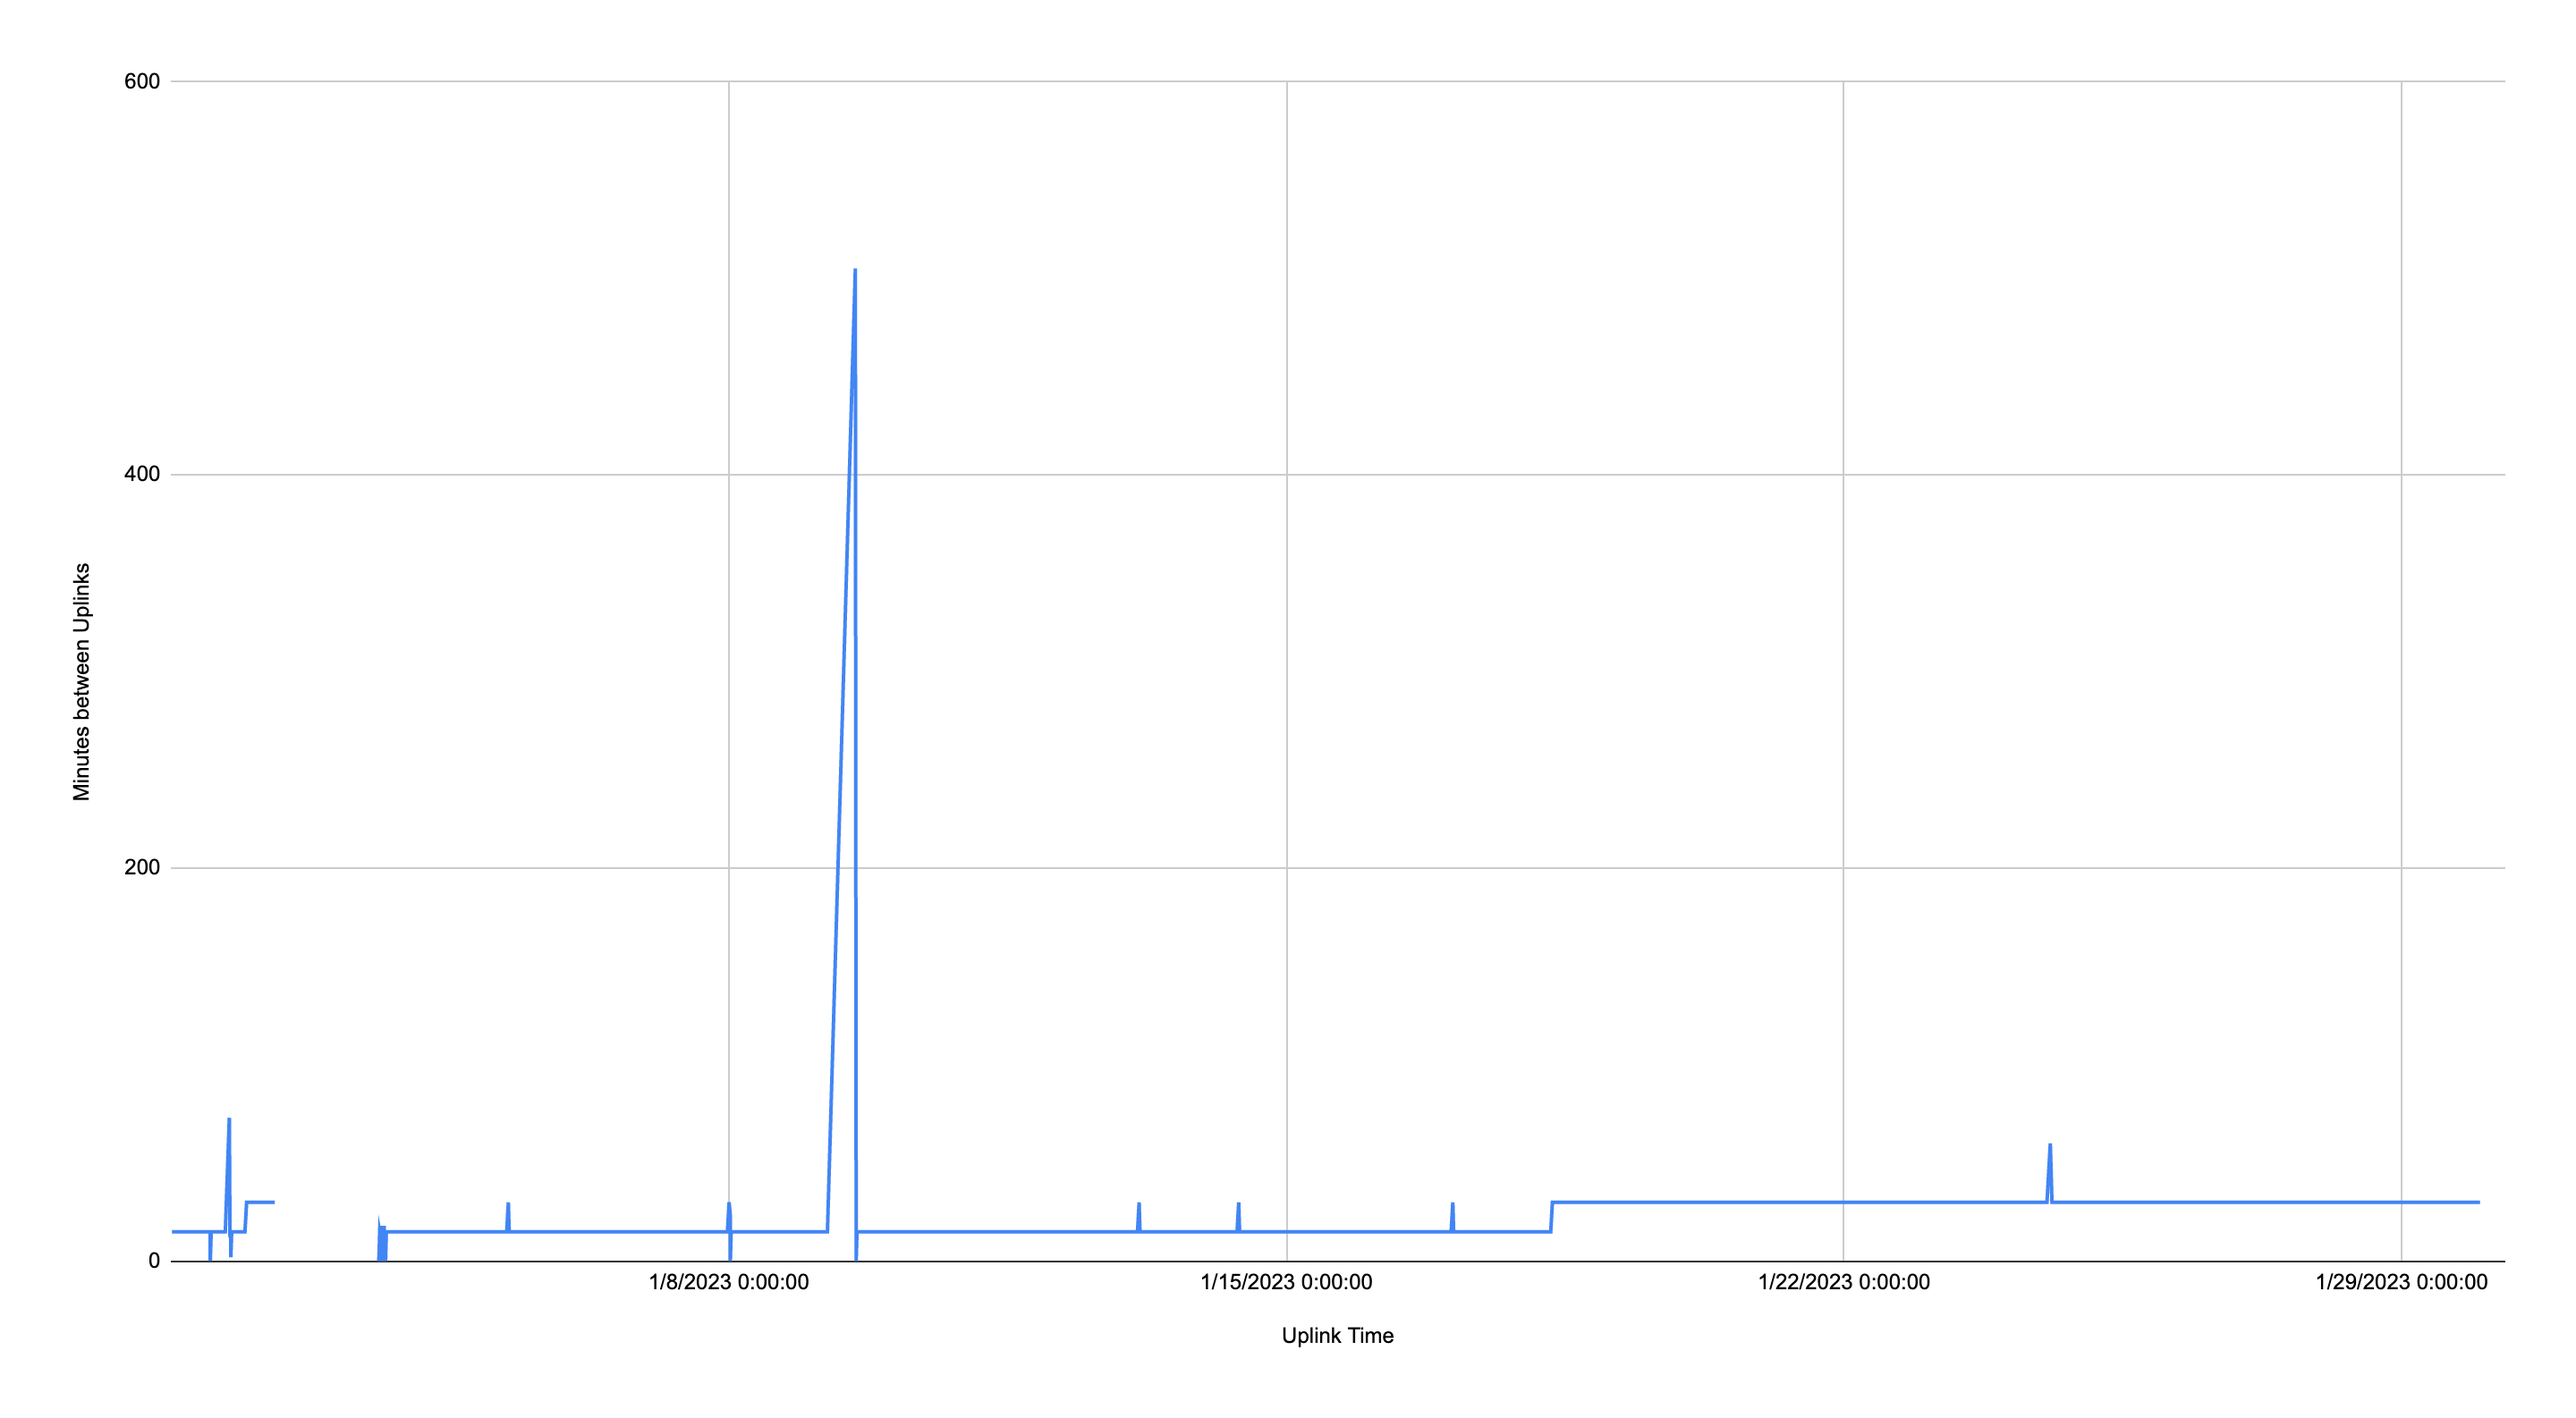
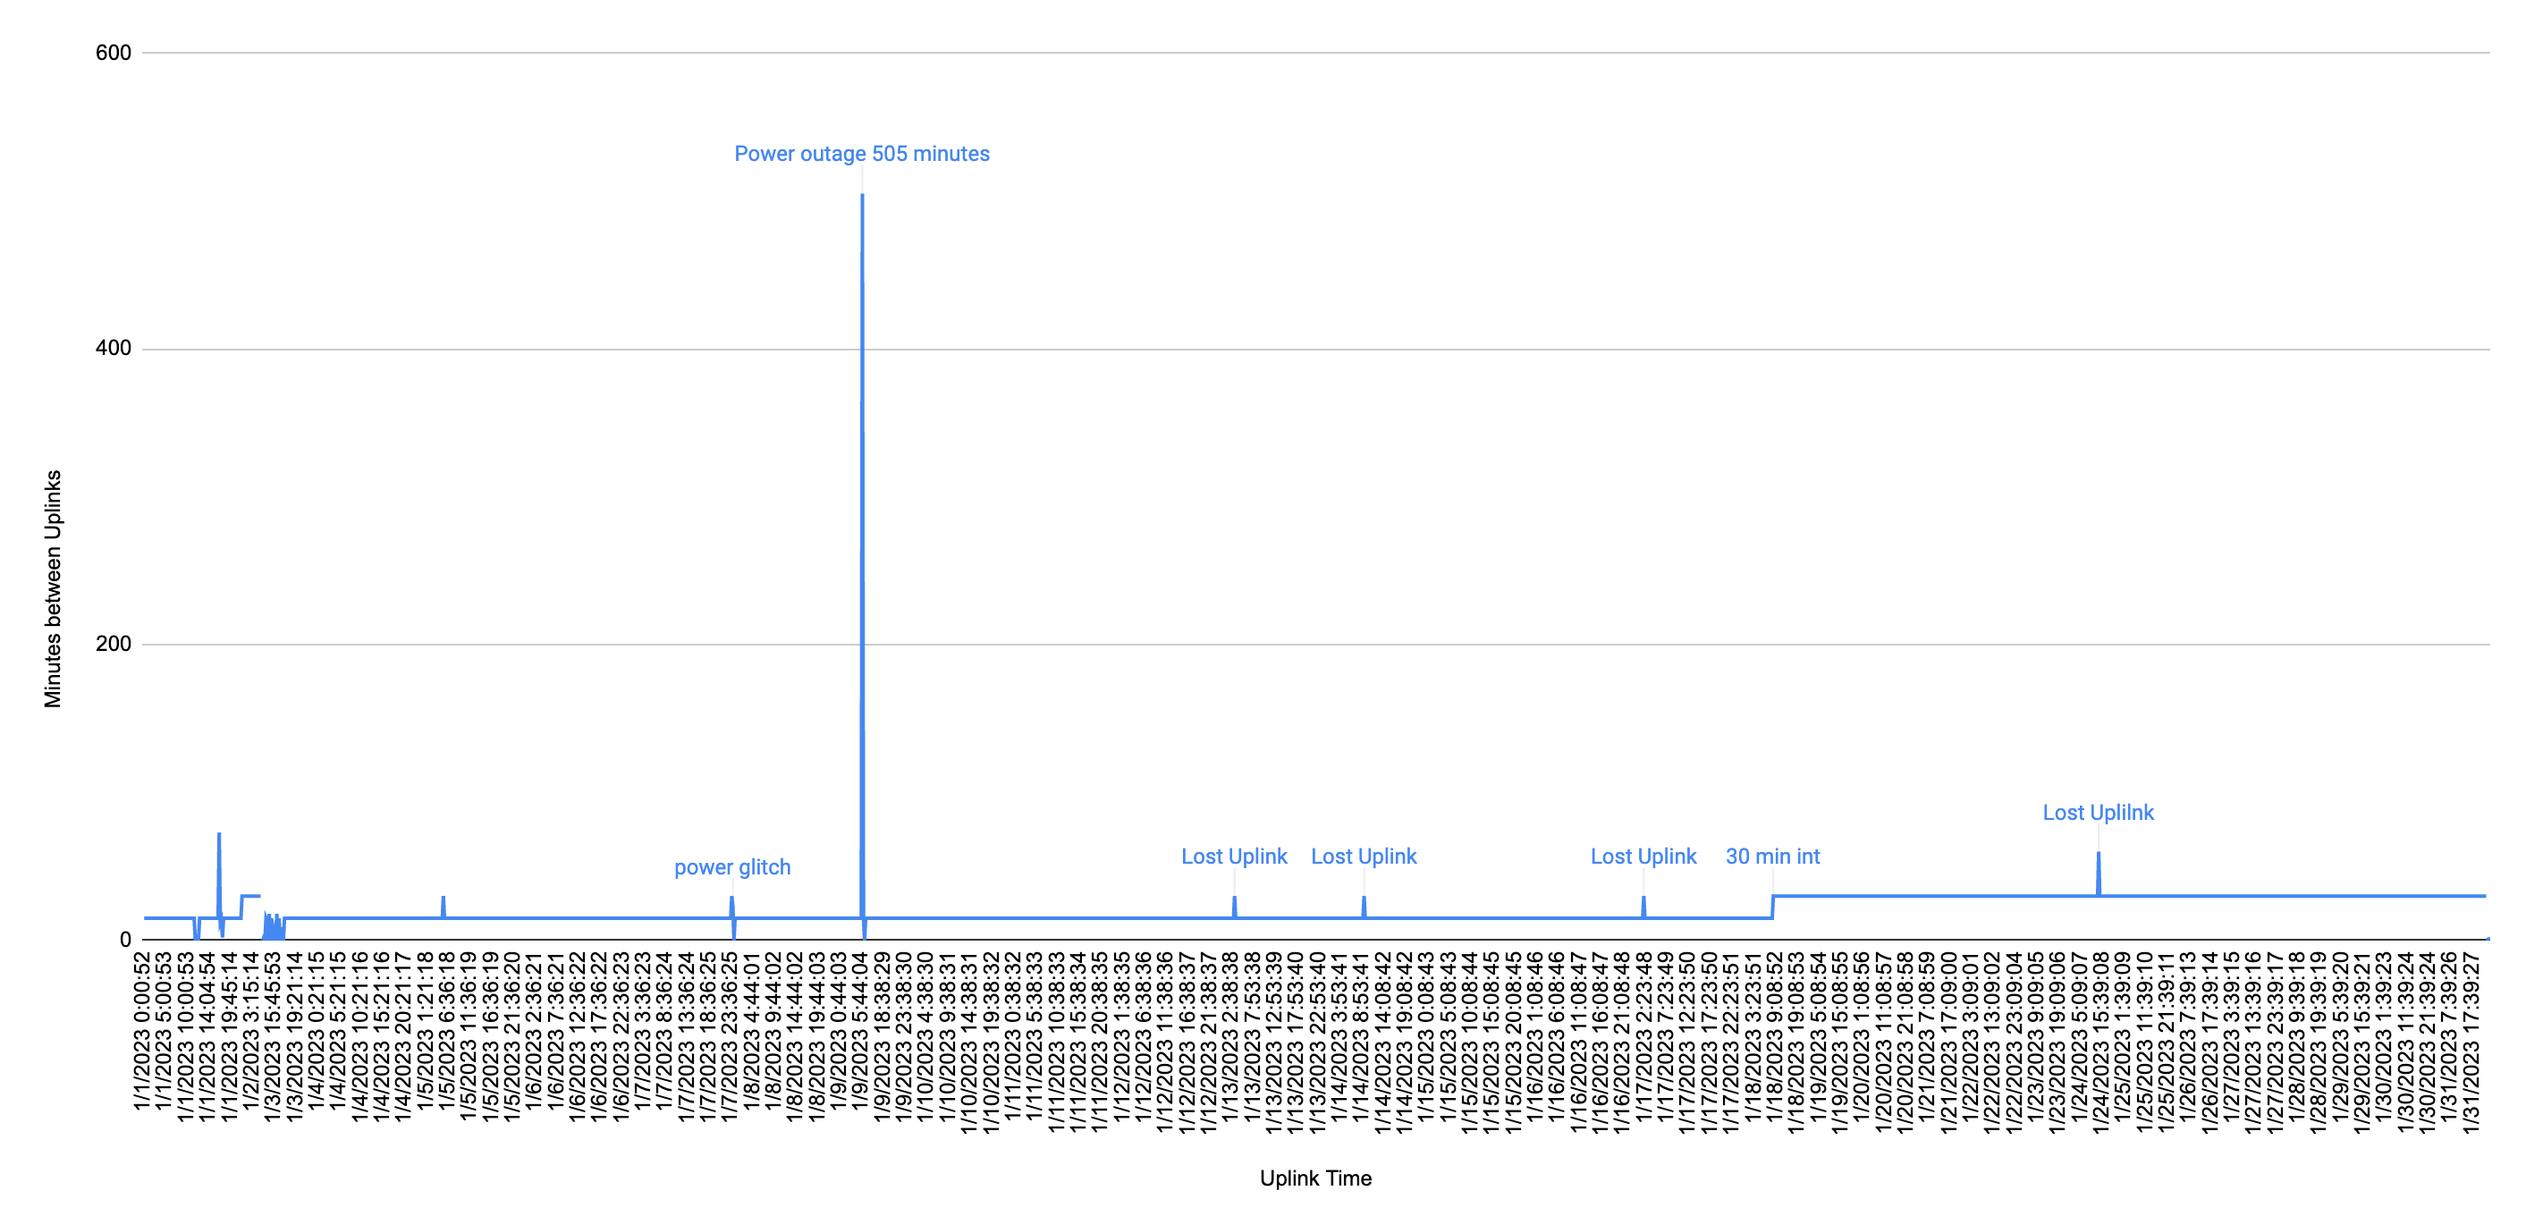
modified:   README.md

diff --git a/payload-formatters/tagoio.js b/payload-formatters/tagoio.js
@@ -1,0 +1,55 @@
+/* This is an a generic payload parser for LoRaWAN. It will work for any network server.
+ ** The code find the "payload" variable, sent by your sensor, and parse it if exists.
+ ** The content of payload variable is always an Hexadecimal value.
+ **
+ ** Note: Additional variables can be created by the Network Server and sent directly to the bucket. Normally they aren't handled here.
+ **
+ ** Testing:
+ ** You can do manual tests to the parse by using the Device Emulator. Copy and Paste the following JSON:
+ ** [{ "variable": "data", "value": "0109611395" }]
+ */
+
+// Search the payload variable in the payload global variable. It's contents is always [ { variable, value...}, {variable, value...} ...]
+const payload_raw = payload.find(
+  (x) =>
+    x.variable === "payload_raw" ||
+    x.variable === "payload" ||
+    x.variable === "data"
+);
+if (payload_raw) {
+  try {
+    // Convert the data from Hex to Javascript Buffer.
+    const buffer = Buffer.from(payload_raw.value, "hex");
+
+    // Payload is 6 bytes.
+    // 0,1 - mAmp
+    // 2,3 - Temperature
+    // 4,5 - Humidity
+    // More information about buffers can be found here: https://nodejs.org/api/buffer.html
+    const data = [
+      { variable: "milliamp", value: buffer.readInt16BE(0) },
+      {
+        variable: "temperature",
+        value: buffer.readInt16BE(2) / 100,
+        unit: "°C",
+      },
+      { variable: "humidity", value: buffer.readUInt16BE(4) / 100, unit: "%" },
+    ];
+
+    // This will concat the content sent by your device with the content generated in this payload parser.
+    // It also add the field "group" and "time" to it, copying from your sensor data.
+    payload = payload.concat(
+      data.map((x) => ({
+        ...x,
+        group: String(payload_raw.serie || payload_raw.group),
+//        time: String(payload_raw.time),
+      }))
+    );
+  } catch (e) {
+    // Print the error to the Live Inspector.
+    console.error(e);
+
+    // Return the variable parse_error for debugging.
+    payload = [{ variable: "parse_error", value: e.message }];
+  }
+}

diff --git a/README.md b/README.md
@@ -40,7 +40,9 @@ Nice write up on how to monitor energy usage.   This became the starting point f
 		
 https://savjee.be/blog/Home-Energy-Monitor-ESP32-CT-Sensor-Emonlib/
 	
-### Calibration of the CT clamp is required.  Good background information here:
+### Calibration 
+
+Calibration of the CT clamp is required.  Good background information here:
 	
 https://community.openenergymonitor.org/t/calibration-and-parameters-in-emonlib/6855
 			
@@ -50,3 +52,37 @@ Trial and error seemed to be the fastest way to calibrate using a volt meter wit
 
 *CT clamp calibration*
 
+## LoRaWAN Service Provider
+
+The final location of this device is the SF Bay Area.  The Things Network (TTN) has very little coverage there.  Although TTN was tested in Munich, it was quickly abandoned in favor of HNT, which is supported widely in the Bay Area.
+	
+<img src="docs/img/TTN-BayArea-Coverage.png" width="400">
+
+*TTN Coverage Map*
+	
+	
+<img src="docs/img/HNT-BayArea-Coverage.png" width="400">
+
+*HNT Coverage Map*
+
+	
+## Sensor Data
+	
+Many ways to display the uplink data.  The HNT website has good information for various 3rd party integrations. Both Google Sheets and TagoIO integrations were implemented for this project.  TagoIO gives quick access to raw payload, hotspot name, RSSI, SNR and SF.  Tagoio.js in the payload-formatters directory works for this device.
+	
+### Google sheets
+	
+Most flexible way to show data.  HNT has a good tutorial here : [Google Sheets Tutorial](https://docs.helium.com/use-the-network/console/integrations/google-sheets/).  Live sensor data here showing pump iRMS:  [Pump iRMS](https://docs.google.com/spreadsheets/d/e/2PACX-1vQj1dn7G-eRcmEB5HmqzgXQ_rtUPW68QRESnKMKsQ1TotCIrERJMUct81eylsNTOlBHo3MNF0EYcU-y/pubchart?oid=1019867124&amp;format=interactive).
+	
+I was also curious how many LoRaWAN uplinks were dropped, so I'm tracking time between uplinks here: [Uplink Intervals](https://docs.google.com/spreadsheets/d/e/2PACX-1vQj1dn7G-eRcmEB5HmqzgXQ_rtUPW68QRESnKMKsQ1TotCIrERJMUct81eylsNTOlBHo3MNF0EYcU-y/pubhtml?gid=776933052&amp;single=true&amp;widget=true&amp;headers=false).   In January 2023 this chart shows two power outages (one lasting 505 minutes) and 4 lost uplinks at 15 minute intervals.  On January 18th I sent a downlink command and changed to uplink interval to 30 minutes and 1 uplink was lost for the remainder of January.
+
+	
+<img src="docs/img/Lora-tx-interval.png
+" width="400">
+
+*Lost uplinks*
+
+	
+## Troubleshooting and notes
+	
+	
